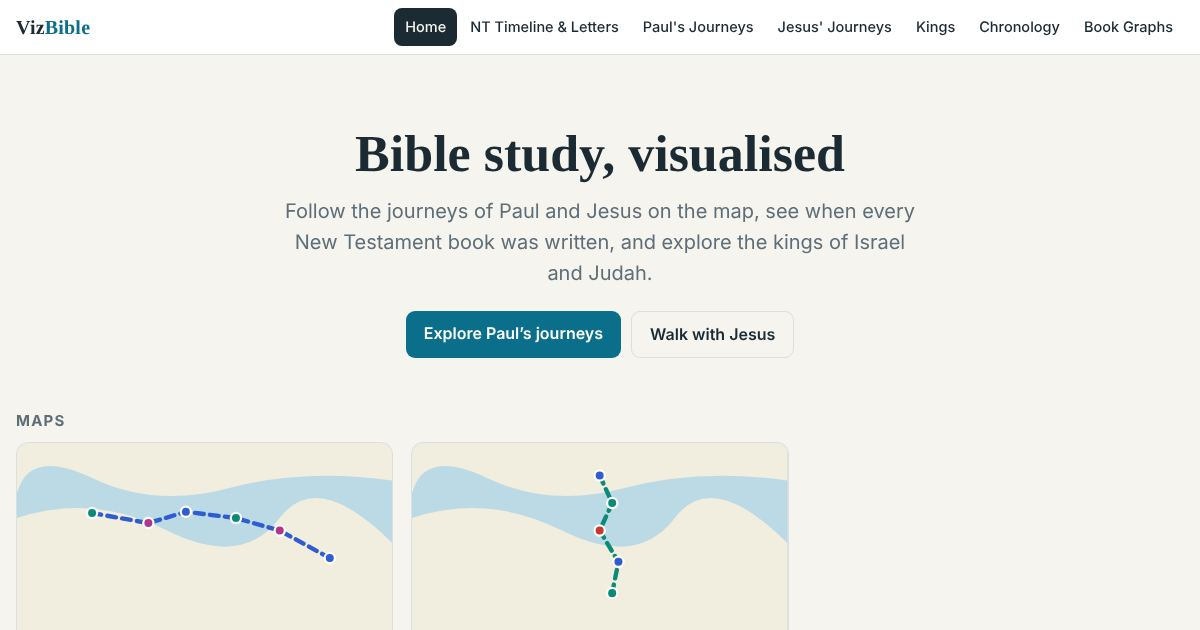
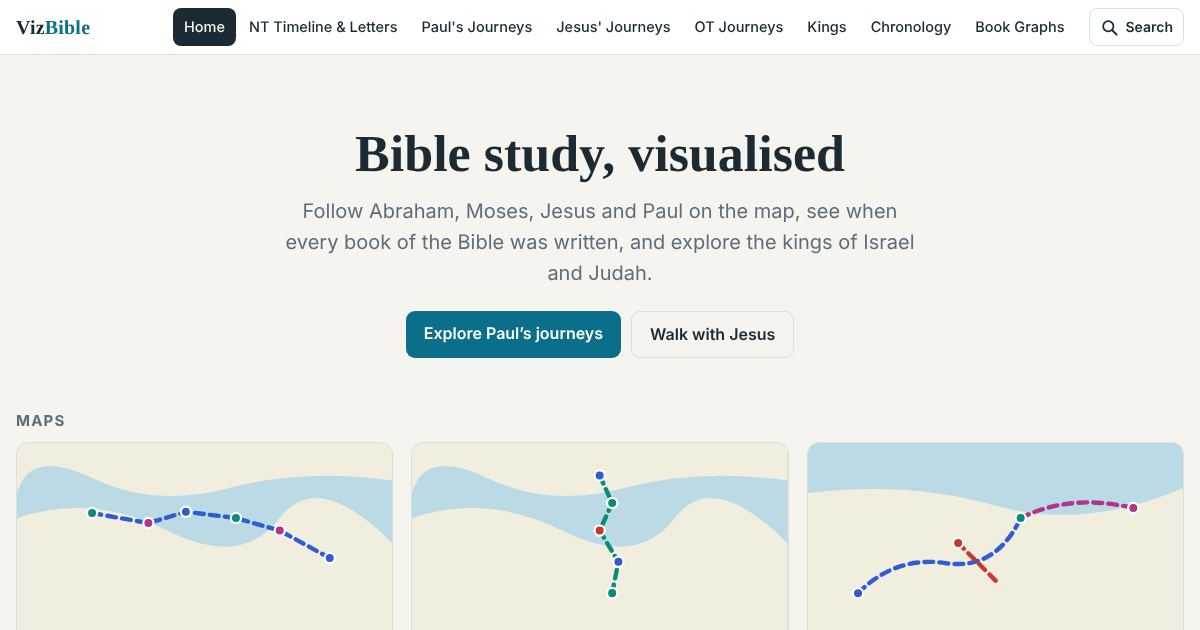
Site-wide search
- Search button in the nav (or press /): books, kings, places, churches, journeys and events from every data file
- Chronology and Kings pages accept ?q= so results open filtered
- Search check added to tools/browser-check.js; home page text mentions the Old Testament maps

Claude-Session: https://claude.ai/code/session_01GtBQsXw2YeoUFZzEJRTyc1

diff --git a/assets/site.js b/assets/site.js
@@ -27,7 +27,9 @@
       return '<li><a href="' + p[0] + '"' + (p[0].toLowerCase() === here.toLowerCase() ? ' aria-current="page"' : '') + '>' + p[1] + '</a></li>';
     }).join('');
     nav.outerHTML = '<nav class="sitenav" aria-label="Main"><div class="bar"><a class="brand" href="index.html">Viz<span>Bible</span></a>' +
-      '<button class="navtoggle" aria-expanded="false" aria-controls="navlist">Menu</button><ul id="navlist">' + items + '</ul></div></nav>';
+      '<ul id="navlist">' + items + '</ul>' +
+      '<button class="searchbtn" type="button" aria-label="Search the site" title="Search (press /)"><svg viewBox="0 0 24 24" width="19" height="19" aria-hidden="true"><circle cx="10.5" cy="10.5" r="6.5" fill="none" stroke="currentColor" stroke-width="2.2"/><path d="M15.5 15.5 L21 21" stroke="currentColor" stroke-width="2.4" stroke-linecap="round"/></svg><span>Search</span></button>' +
+      '<button class="navtoggle" aria-expanded="false" aria-controls="navlist">Menu</button></div></nav>';
     var bar = document.querySelector('.sitenav'), btn = bar.querySelector('.navtoggle');
     btn.addEventListener('click', function () { var o = bar.classList.toggle('open'); btn.setAttribute('aria-expanded', o); });
   }
@@ -38,4 +40,71 @@
       ' <a href="about.html">About</a><a href="privacy.html">Privacy</a><a href="terms.html">Terms</a>' +
       '<!-- DONATE_BUTTON: paste the donate link/button inside this span when ready --><span class="donate-slot" id="donate-slot"></span></footer>';
   }
+
+  // ---- site search: data is loaded the first time the search box opens ----
+  var IDX = null, dlg = null;
+  function getJSON(u) { return fetch(u + (u.indexOf('?') > -1 ? '&' : '?') + 'v=02f56db6').then(function (r) { return r.ok ? r.json() : null; }).catch(function () { return null; }); }
+  function esc(t) { return String(t == null ? '' : t).replace(/[&<>"]/g, function (c) { return { '&': '&amp;', '<': '&lt;', '>': '&gt;', '"': '&quot;' }[c]; }); }
+  function strip(t) { return String(t || '').replace(/<[^>]+>/g, ''); }
+  function buildIndex() {
+    return Promise.all(['books', 'ot-books', 'kings', 'churches', 'paul-journeys', 'jesus-journeys', 'ot-journeys'].map(function (n) { return getJSON('data/' + n + '.json'); }))
+      .then(function (d) {
+        var out = [], add = function (type, title, sub, text, url) { out.push({ type: type, title: title, sub: sub, text: (title + ' ' + sub + ' ' + text).toLowerCase(), t: title.toLowerCase(), url: url }); };
+        pages.forEach(function (p) { add('Page', p[1].replace('NT', 'New Testament').replace('OT', 'Old Testament'), '', p[0], p[0]); });
+        var NT = d[0];
+        if (NT) {
+          NT.books.forEach(function (b) { add('Book', b.name, 'New Testament · AD ' + (b.start === b.end ? b.start : b.start + '–' + b.end) + ' · ' + b.author, b.theme, 'PaulineChurches.html?book=' + b.slug); });
+          NT.events.concat(NT.journeys).forEach(function (e) { add('Event', e.name, 'AD ' + (e.start === e.end ? e.start : e.start + '–' + e.end), e.note || '', e.map || 'PaulineChurches.html'); });
+        }
+        if (d[1]) d[1].books.forEach(function (b) { add('Book', b.name, 'Old Testament · ' + b.date + ' · ' + b.author, b.theme, 'BibleChronos.html?q=' + encodeURIComponent(b.name)); });
+        if (d[2]) d[2].kings.forEach(function (k) { add('King', k.name, k.kingdom + ' · ' + k.start + '–' + k.end + ' BC · ' + k.evalText, k.notes + ' ' + k.prophets + ' ' + k.refs, 'KingsJudaIsrael.html?q=' + encodeURIComponent(k.name.split(' /')[0].split(' (')[0])); });
+        if (d[3]) d[3].forEach(function (c) { add('Church', c.city, c.modern + (c.letters && c.letters !== '—' ? ' · ' + c.letters : ''), c.province + ' ' + c.notes, 'paulmap.html?city=' + c.id); });
+        [['paulmap.html', d[4], "Paul's journeys"], ['jesusmap.html', d[5], "Jesus' journeys"], ['otmap.html', d[6], 'Old Testament journeys']].forEach(function (m) {
+          var J = m[1]; if (!J) return;
+          Object.keys(J.J).forEach(function (k) { add('Journey', strip(J.J[k].name), m[2] + (J.J[k].years ? ' · ' + J.J[k].years : ''), strip(J.J[k].sum), m[0] + '?journey=' + k); });
+          Object.keys(J.C).forEach(function (id) {
+            var c = J.C[id], ev = Object.keys(c.e).map(function (k) { return c.e[k][0] + ' ' + c.e[k][1]; }).join(' ');
+            add('Place', c.n, m[2] + ' · ' + (J.MODERN[id] || c.m), c.m + ' ' + ev, m[0] + '?city=' + id);
+          });
+        });
+        return out;
+      });
+  }
+  function score(r, terms) {
+    for (var i = 0; i < terms.length; i++) if (r.text.indexOf(terms[i]) < 0) return 0;
+    var q = terms.join(' ');
+    return (r.t === q ? 50 : 0) + (r.t.indexOf(q) === 0 ? 20 : 0) + (r.t.indexOf(q) > -1 ? 10 : 0) + (r.type === 'Book' || r.type === 'King' ? 2 : 0) + 1;
+  }
+  function openSearch() {
+    if (!dlg) {
+      dlg = document.createElement('div');
+      dlg.className = 'vbsearch'; dlg.setAttribute('role', 'dialog'); dlg.setAttribute('aria-modal', 'true'); dlg.setAttribute('aria-label', 'Search VizBible');
+      dlg.innerHTML = '<div class="vbs-box"><div class="vbs-head"><input type="search" placeholder="Search books, places, kings, events…" aria-label="Search VizBible" autocomplete="off"><button type="button" class="vbs-close" aria-label="Close search">Esc</button></div><div class="vbs-res" aria-live="polite"><p class="vbs-hint">Try “Corinth”, “Hezekiah”, “Exodus” or “Romans”.</p></div></div>';
+      document.body.appendChild(dlg);
+      var input = dlg.querySelector('input'), res = dlg.querySelector('.vbs-res');
+      var run = function () {
+        var q = input.value.trim().toLowerCase();
+        if (!q) { res.innerHTML = '<p class="vbs-hint">Try “Corinth”, “Hezekiah”, “Exodus” or “Romans”.</p>'; return; }
+        if (!IDX) { res.innerHTML = '<p class="vbs-hint">Loading…</p>'; return; }
+        var terms = q.split(/\s+/), hits = IDX.map(function (r) { return { r: r, s: score(r, terms) }; }).filter(function (x) { return x.s; })
+          .sort(function (a, b) { return b.s - a.s; }).slice(0, 40);
+        res.innerHTML = hits.length ? '<ul>' + hits.map(function (h) { return '<li><a href="' + h.r.url + '"><span class="vbs-type">' + h.r.type + '</span><b>' + esc(h.r.title) + '</b><small>' + esc(h.r.sub) + '</small></a></li>'; }).join('') + '</ul>'
+          : '<p class="vbs-hint">No matches for “' + esc(input.value) + '”.</p>';
+      };
+      input.addEventListener('input', run);
+      input.addEventListener('keydown', function (e) { if (e.key === 'Enter') { var a = res.querySelector('a'); if (a) location.href = a.href; } });
+      dlg.addEventListener('click', function (e) { if (e.target === dlg || e.target.closest('.vbs-close')) closeSearch(); });
+      dlg.addEventListener('keydown', function (e) { if (e.key === 'Escape') closeSearch(); });
+      buildIndex().then(function (i) { IDX = i; run(); });
+    }
+    dlg.hidden = false; document.documentElement.classList.add('vbs-open');
+    var inp = dlg.querySelector('input'); inp.focus(); inp.select();
+  }
+  function closeSearch() { if (dlg) { dlg.hidden = true; document.documentElement.classList.remove('vbs-open'); var b = document.querySelector('.searchbtn'); if (b) b.focus(); } }
+  var sb = document.querySelector('.searchbtn');
+  if (sb) sb.addEventListener('click', openSearch);
+  document.addEventListener('keydown', function (e) {
+    if (e.key === '/' && !/input|textarea|select/i.test((e.target.tagName || '')) && !e.target.isContentEditable) { e.preventDefault(); openSearch(); }
+  });
+  window.VBSearch = { open: openSearch };
 })();

diff --git a/assets/site.css b/assets/site.css
@@ -69,3 +69,25 @@ a:focus-visible, button:focus-visible { outline: 3px solid var(--accent); outlin
 /* older pages keep a light look inside the shared shell */
 body.legacy { --bg: #ffffff; --panel: #ffffff; --ink: #222; --muted: #666; --line: #ddd; --accent: #0b6e8a; color-scheme: light; background: #fff; color: #333; }
 body.legacy .container, body.legacy header { color: #333; }
+
+/* site search */
+.searchbtn { display: inline-flex; align-items: center; gap: 6px; background: transparent; border: 1.5px solid var(--line); color: var(--ink); border-radius: 8px; padding: 7px 10px; font: 600 14px/1 var(--sans); min-height: 38px; cursor: pointer; }
+.searchbtn:hover { background: color-mix(in srgb, var(--accent) 12%, transparent); }
+@media (max-width: 1180px) and (min-width: 861px) { .searchbtn span { display: none; } }
+@media (max-width: 860px) { .searchbtn { margin-left: auto; } .navtoggle { margin-left: 0; } }
+.vbsearch { position: fixed; inset: 0; z-index: 3000; background: rgba(13, 21, 26, .45); display: flex; justify-content: center; align-items: flex-start; padding: 8vh 12px 12px; }
+.vbsearch[hidden] { display: none; }
+html.vbs-open { overflow: hidden; }
+.vbs-box { width: min(640px, 100%); max-height: 80vh; display: flex; flex-direction: column; background: var(--panel); color: var(--ink); border-radius: 14px; box-shadow: 0 20px 60px rgba(0, 0, 0, .35); overflow: hidden; }
+.vbs-head { display: flex; gap: 8px; padding: 12px; border-bottom: 1px solid var(--line); }
+.vbs-head input { flex: 1; font: 17px var(--sans); padding: 10px 12px; border: 1.5px solid var(--line); border-radius: 9px; background: var(--bg); color: var(--ink); }
+.vbs-close { background: transparent; border: 1.5px solid var(--line); border-radius: 9px; color: var(--muted); font: 600 13px var(--sans); padding: 0 12px; cursor: pointer; }
+.vbs-res { overflow-y: auto; padding: 6px; }
+.vbs-res ul { list-style: none; margin: 0; padding: 0; }
+.vbs-res a { display: grid; grid-template-columns: 74px 1fr; column-gap: 10px; padding: 9px 10px; border-radius: 9px; color: var(--ink); text-decoration: none; }
+.vbs-res a:hover, .vbs-res a:focus-visible { background: color-mix(in srgb, var(--accent) 12%, transparent); outline: none; }
+.vbs-res b { font-weight: 600; }
+.vbs-res small { grid-column: 2; color: var(--muted); font-size: 13px; }
+.vbs-type { grid-row: span 2; align-self: start; font: 600 11px/1 var(--sans); text-transform: uppercase; letter-spacing: .06em; color: var(--accent); padding-top: 4px; }
+.vbs-hint { color: var(--muted); padding: 10px; margin: 0; }
+@media print { .searchbtn, .vbsearch { display: none !important; } }

diff --git a/index.html b/index.html
@@ -11,7 +11,7 @@
 <meta property="og:description" content="Interactive Bible maps and timelines: Paul's and Jesus' journeys, New Testament chronology and the kings of Israel and Judah.">
 <meta property="og:url" content="https://vizbible.com/"><meta name="twitter:card" content="summary_large_image"><meta property="og:image" content="https://vizbible.com/assets/og/index.jpg"><meta property="og:image:width" content="1200"><meta property="og:image:height" content="630">
 <link rel="icon" href="assets/favicon.svg" type="image/svg+xml">
-<link rel="stylesheet" href="assets/site.css?v=9bd00f37">
+<link rel="stylesheet" href="assets/site.css?v=350c0aa7">
 <style>
 .hero{text-align:center;padding:44px 16px 20px;max-width:820px;margin:0 auto}
 .hero h1{font-size:clamp(32px,6vw,52px);margin:0 0 10px}
@@ -28,7 +28,7 @@
 <main id="main" class="wrap">
   <section class="hero">
     <h1>Bible study, visualised</h1>
-    <p>Follow the journeys of Paul and Jesus on the map, see when every New Testament book was written, and explore the kings of Israel and Judah.</p>
+    <p>Follow Abraham, Moses, Jesus and Paul on the map, see when every book of the Bible was written, and explore the kings of Israel and Judah.</p>
     <div class="cta"><a class="vbtn" href="paulmap.html">Explore Paul’s journeys</a><a class="vbtn ghost" href="jesusmap.html">Walk with Jesus</a></div>
   </section>
 
@@ -54,6 +54,6 @@
   <p class="about">VizBible is built to help students, pastors and teachers see how Scripture fits together. <a href="about.html">About the project</a></p>
 </main>
 <div id="site-footer"></div>
-<script src="assets/site.js?v=1fc36849"></script>
+<script src="assets/site.js?v=2a98c604"></script>
 </body>
 </html>

diff --git a/privacy.html b/privacy.html
@@ -10,7 +10,7 @@
 <meta property="og:title" content="Privacy Policy | VizBible"><meta property="og:description" content="How VizBible handles your information: no accounts, no tracking of its own, and what the map and image providers can see.">
 <meta property="og:url" content="https://vizbible.com/privacy.html"><meta name="twitter:card" content="summary_large_image"><meta property="og:image" content="https://vizbible.com/assets/og/index.jpg"><meta property="og:image:width" content="1200"><meta property="og:image:height" content="630">
 <link rel="icon" href="assets/favicon.svg" type="image/svg+xml">
-<link rel="stylesheet" href="assets/site.css?v=9bd00f37">
+<link rel="stylesheet" href="assets/site.css?v=350c0aa7">
 <style>.prose{max-width:760px;margin:0 auto;padding:8px 16px 56px} .prose h1{text-align:center;font-size:clamp(26px,4vw,36px)} .prose h2{font-size:20px;margin-top:28px} .prose p,.prose li{font-size:16.5px} .prose .updated{color:var(--muted);font-size:14px}</style>
 </head>
 <body>
@@ -38,6 +38,6 @@
 <p>If you write to us, we will use your message only to reply and will not share it. Changes to this policy will be posted on this page.</p>
 </main>
 <div id="site-footer"></div>
-<script src="assets/site.js?v=1fc36849"></script>
+<script src="assets/site.js?v=2a98c604"></script>
 </body>
 </html>

diff --git a/about.html b/about.html
@@ -10,7 +10,7 @@
 <meta property="og:title" content="About VizBible | Bible study, visualised"><meta property="og:description" content="VizBible turns Bible chronologies, journeys and book data into interactive maps and timelines for study, teaching and curiosity.">
 <meta property="og:url" content="https://vizbible.com/about.html"><meta name="twitter:card" content="summary_large_image"><meta property="og:image" content="https://vizbible.com/assets/og/about.jpg"><meta property="og:image:width" content="1200"><meta property="og:image:height" content="630">
 <link rel="icon" href="assets/favicon.svg" type="image/svg+xml">
-<link rel="stylesheet" href="assets/site.css?v=9bd00f37">
+<link rel="stylesheet" href="assets/site.css?v=350c0aa7">
 <style>.prose{max-width:760px;margin:0 auto;padding:8px 16px 56px} .prose h1{text-align:center;font-size:clamp(26px,4vw,36px)} .prose h2{font-size:20px;margin-top:28px} .prose p,.prose li{font-size:16.5px} .prose .updated{color:var(--muted);font-size:14px}</style>
 </head>
 <body>
@@ -48,6 +48,6 @@
 <p class="updated">Created in 2026.</p>
 </main>
 <div id="site-footer"></div>
-<script src="assets/site.js?v=1fc36849"></script>
+<script src="assets/site.js?v=2a98c604"></script>
 </body>
 </html>

diff --git a/terms.html b/terms.html
@@ -10,7 +10,7 @@
 <meta property="og:title" content="Terms of Service | VizBible"><meta property="og:description" content="Terms for using VizBible: educational use, no warranties, and how to reuse the content.">
 <meta property="og:url" content="https://vizbible.com/terms.html"><meta name="twitter:card" content="summary_large_image"><meta property="og:image" content="https://vizbible.com/assets/og/index.jpg"><meta property="og:image:width" content="1200"><meta property="og:image:height" content="630">
 <link rel="icon" href="assets/favicon.svg" type="image/svg+xml">
-<link rel="stylesheet" href="assets/site.css?v=9bd00f37">
+<link rel="stylesheet" href="assets/site.css?v=350c0aa7">
 <style>.prose{max-width:760px;margin:0 auto;padding:8px 16px 56px} .prose h1{text-align:center;font-size:clamp(26px,4vw,36px)} .prose h2{font-size:20px;margin-top:28px} .prose p,.prose li{font-size:16.5px} .prose .updated{color:var(--muted);font-size:14px}</style>
 </head>
 <body>
@@ -29,6 +29,6 @@
 <p>Changes to these terms will be posted on this page.</p>
 </main>
 <div id="site-footer"></div>
-<script src="assets/site.js?v=1fc36849"></script>
+<script src="assets/site.js?v=2a98c604"></script>
 </body>
 </html>

diff --git a/PaulineChurches.html b/PaulineChurches.html
@@ -12,7 +12,7 @@
 <meta property="og:url" content="https://vizbible.com/PaulineChurches.html">
 <meta name="twitter:card" content="summary_large_image"><meta property="og:image" content="https://vizbible.com/assets/og/PaulineChurches.jpg"><meta property="og:image:width" content="1200"><meta property="og:image:height" content="630">
 <link rel="icon" href="assets/favicon.svg" type="image/svg+xml">
-<link rel="stylesheet" href="assets/site.css?v=9bd00f37">
+<link rel="stylesheet" href="assets/site.css?v=350c0aa7">
 <link rel="stylesheet" href="assets/timeline.css?v=748a2bb2">
 </head>
 <body>
@@ -69,7 +69,7 @@
   <p style="color:var(--muted);font-size:14px;margin-top:12px">Dates and places follow widely used conservative chronologies (the church dates below do not change with the dating toggle) and the book of Acts. Where scholars disagree, the table says so.</p>
 </main>
 <div id="site-footer"></div>
-<script src="assets/site.js?v=1fc36849"></script>
+<script src="assets/site.js?v=2a98c604"></script>
 <script src="assets/timeline.js?v=cd0c9d8d"></script>
 </body>
 </html>

diff --git a/KingsJudaIsrael.html b/KingsJudaIsrael.html
@@ -12,7 +12,7 @@
 <meta property="og:url" content="https://vizbible.com/KingsJudaIsrael.html">
 <meta name="twitter:card" content="summary_large_image"><meta property="og:image" content="https://vizbible.com/assets/og/KingsJudaIsrael.jpg"><meta property="og:image:width" content="1200"><meta property="og:image:height" content="630">
 <link rel="icon" href="assets/favicon.svg" type="image/svg+xml">
-<link rel="stylesheet" href="assets/site.css?v=9bd00f37">
+<link rel="stylesheet" href="assets/site.css?v=350c0aa7">
 <link rel="stylesheet" href="assets/timeline.css?v=748a2bb2">
 <link rel="stylesheet" href="assets/tables.css?v=4f500710">
 </head>
@@ -54,7 +54,7 @@
 </main>
 <div id="site-footer"></div>
 <script src="assets/datatable.js?v=f1f9da38"></script>
-<script src="assets/kings-timeline.js?v=c8bf1408"></script>
-<script src="assets/site.js?v=1fc36849"></script>
+<script src="assets/kings-timeline.js?v=4d0b0851"></script>
+<script src="assets/site.js?v=2a98c604"></script>
 </body>
 </html>

diff --git a/BibleChronos.html b/BibleChronos.html
@@ -12,7 +12,7 @@
 <meta property="og:url" content="https://vizbible.com/BibleChronos.html">
 <meta name="twitter:card" content="summary_large_image"><meta property="og:image" content="https://vizbible.com/assets/og/BibleChronos.jpg"><meta property="og:image:width" content="1200"><meta property="og:image:height" content="630">
 <link rel="icon" href="assets/favicon.svg" type="image/svg+xml">
-<link rel="stylesheet" href="assets/site.css?v=9bd00f37">
+<link rel="stylesheet" href="assets/site.css?v=350c0aa7">
 <link rel="stylesheet" href="assets/timeline.css?v=748a2bb2">
 <link rel="stylesheet" href="assets/tables.css?v=4f500710">
 </head>
@@ -56,7 +56,7 @@
 </main>
 <div id="site-footer"></div>
 <script src="assets/datatable.js?v=f1f9da38"></script>
-<script src="assets/chronology.js?v=111546ec"></script>
-<script src="assets/site.js?v=1fc36849"></script>
+<script src="assets/chronology.js?v=060179f0"></script>
+<script src="assets/site.js?v=2a98c604"></script>
 </body>
 </html>

diff --git a/tools/browser-check.js b/tools/browser-check.js
@@ -62,6 +62,15 @@ const problems = [];
     if (!(await t.$('.tl-vline'))) problems.push(`Timeline${q}: AD 70 marker missing`);
   }
 
+  // site search finds things from every data file
+  const sp = await open('index.html');
+  await sp.click('.searchbtn'); await wait(1500);
+  for (const [q, want] of [['romans', 'Book'], ['hezekiah', 'King'], ['sinai', 'Place'], ['corinth', 'Church']]) {
+    await sp.$eval('.vbsearch input', (e, q) => { e.value = q; e.dispatchEvent(new Event('input')); }, q); await wait(150);
+    const types = await sp.$$eval('.vbs-res .vbs-type', x => x.map(e => e.textContent));
+    if (!types.includes(want)) problems.push(`Search for "${q}" found no ${want}`);
+  }
+
   await browser.close();
   if (problems.length) { console.log('Problems found:\n - ' + problems.join('\n - ')); process.exit(1); }
   console.log(`All good: ${pages.length} pages loaded without errors; all 27 books match on all three pages in both views.`);

diff --git a/jesusmap.html b/jesusmap.html
@@ -14,7 +14,7 @@
 <meta name="twitter:card" content="summary_large_image"><meta property="og:image" content="https://vizbible.com/assets/og/jesusmap.jpg"><meta property="og:image:width" content="1200"><meta property="og:image:height" content="630">
 <link rel="icon" href="assets/favicon.svg" type="image/svg+xml">
 <link rel="stylesheet" href="vendor/leaflet/leaflet.css">
-<link rel="stylesheet" href="assets/site.css?v=9bd00f37">
+<link rel="stylesheet" href="assets/site.css?v=350c0aa7">
 <link rel="stylesheet" href="assets/journey-map.css?v=5936baaf">
 </head>
 <body class="journey-page">
@@ -49,6 +49,6 @@
 <script src="vendor/leaflet/leaflet.js"></script>
 <script>window.JOURNEY_DATA_URL = "data/jesus-journeys.json";</script>
 <script src="assets/journey-map.js?v=cf29c036"></script>
-<script src="assets/site.js?v=1fc36849"></script>
+<script src="assets/site.js?v=2a98c604"></script>
 </body>
 </html>

diff --git a/paulmap.html b/paulmap.html
@@ -14,7 +14,7 @@
 <meta name="twitter:card" content="summary_large_image"><meta property="og:image" content="https://vizbible.com/assets/og/paulmap.jpg"><meta property="og:image:width" content="1200"><meta property="og:image:height" content="630">
 <link rel="icon" href="assets/favicon.svg" type="image/svg+xml">
 <link rel="stylesheet" href="vendor/leaflet/leaflet.css">
-<link rel="stylesheet" href="assets/site.css?v=9bd00f37">
+<link rel="stylesheet" href="assets/site.css?v=350c0aa7">
 <link rel="stylesheet" href="assets/journey-map.css?v=5936baaf">
 </head>
 <body class="journey-page">
@@ -49,6 +49,6 @@
 <script src="vendor/leaflet/leaflet.js"></script>
 <script>window.JOURNEY_DATA_URL = "data/paul-journeys.json";</script>
 <script src="assets/journey-map.js?v=cf29c036"></script>
-<script src="assets/site.js?v=1fc36849"></script>
+<script src="assets/site.js?v=2a98c604"></script>
 </body>
 </html>
